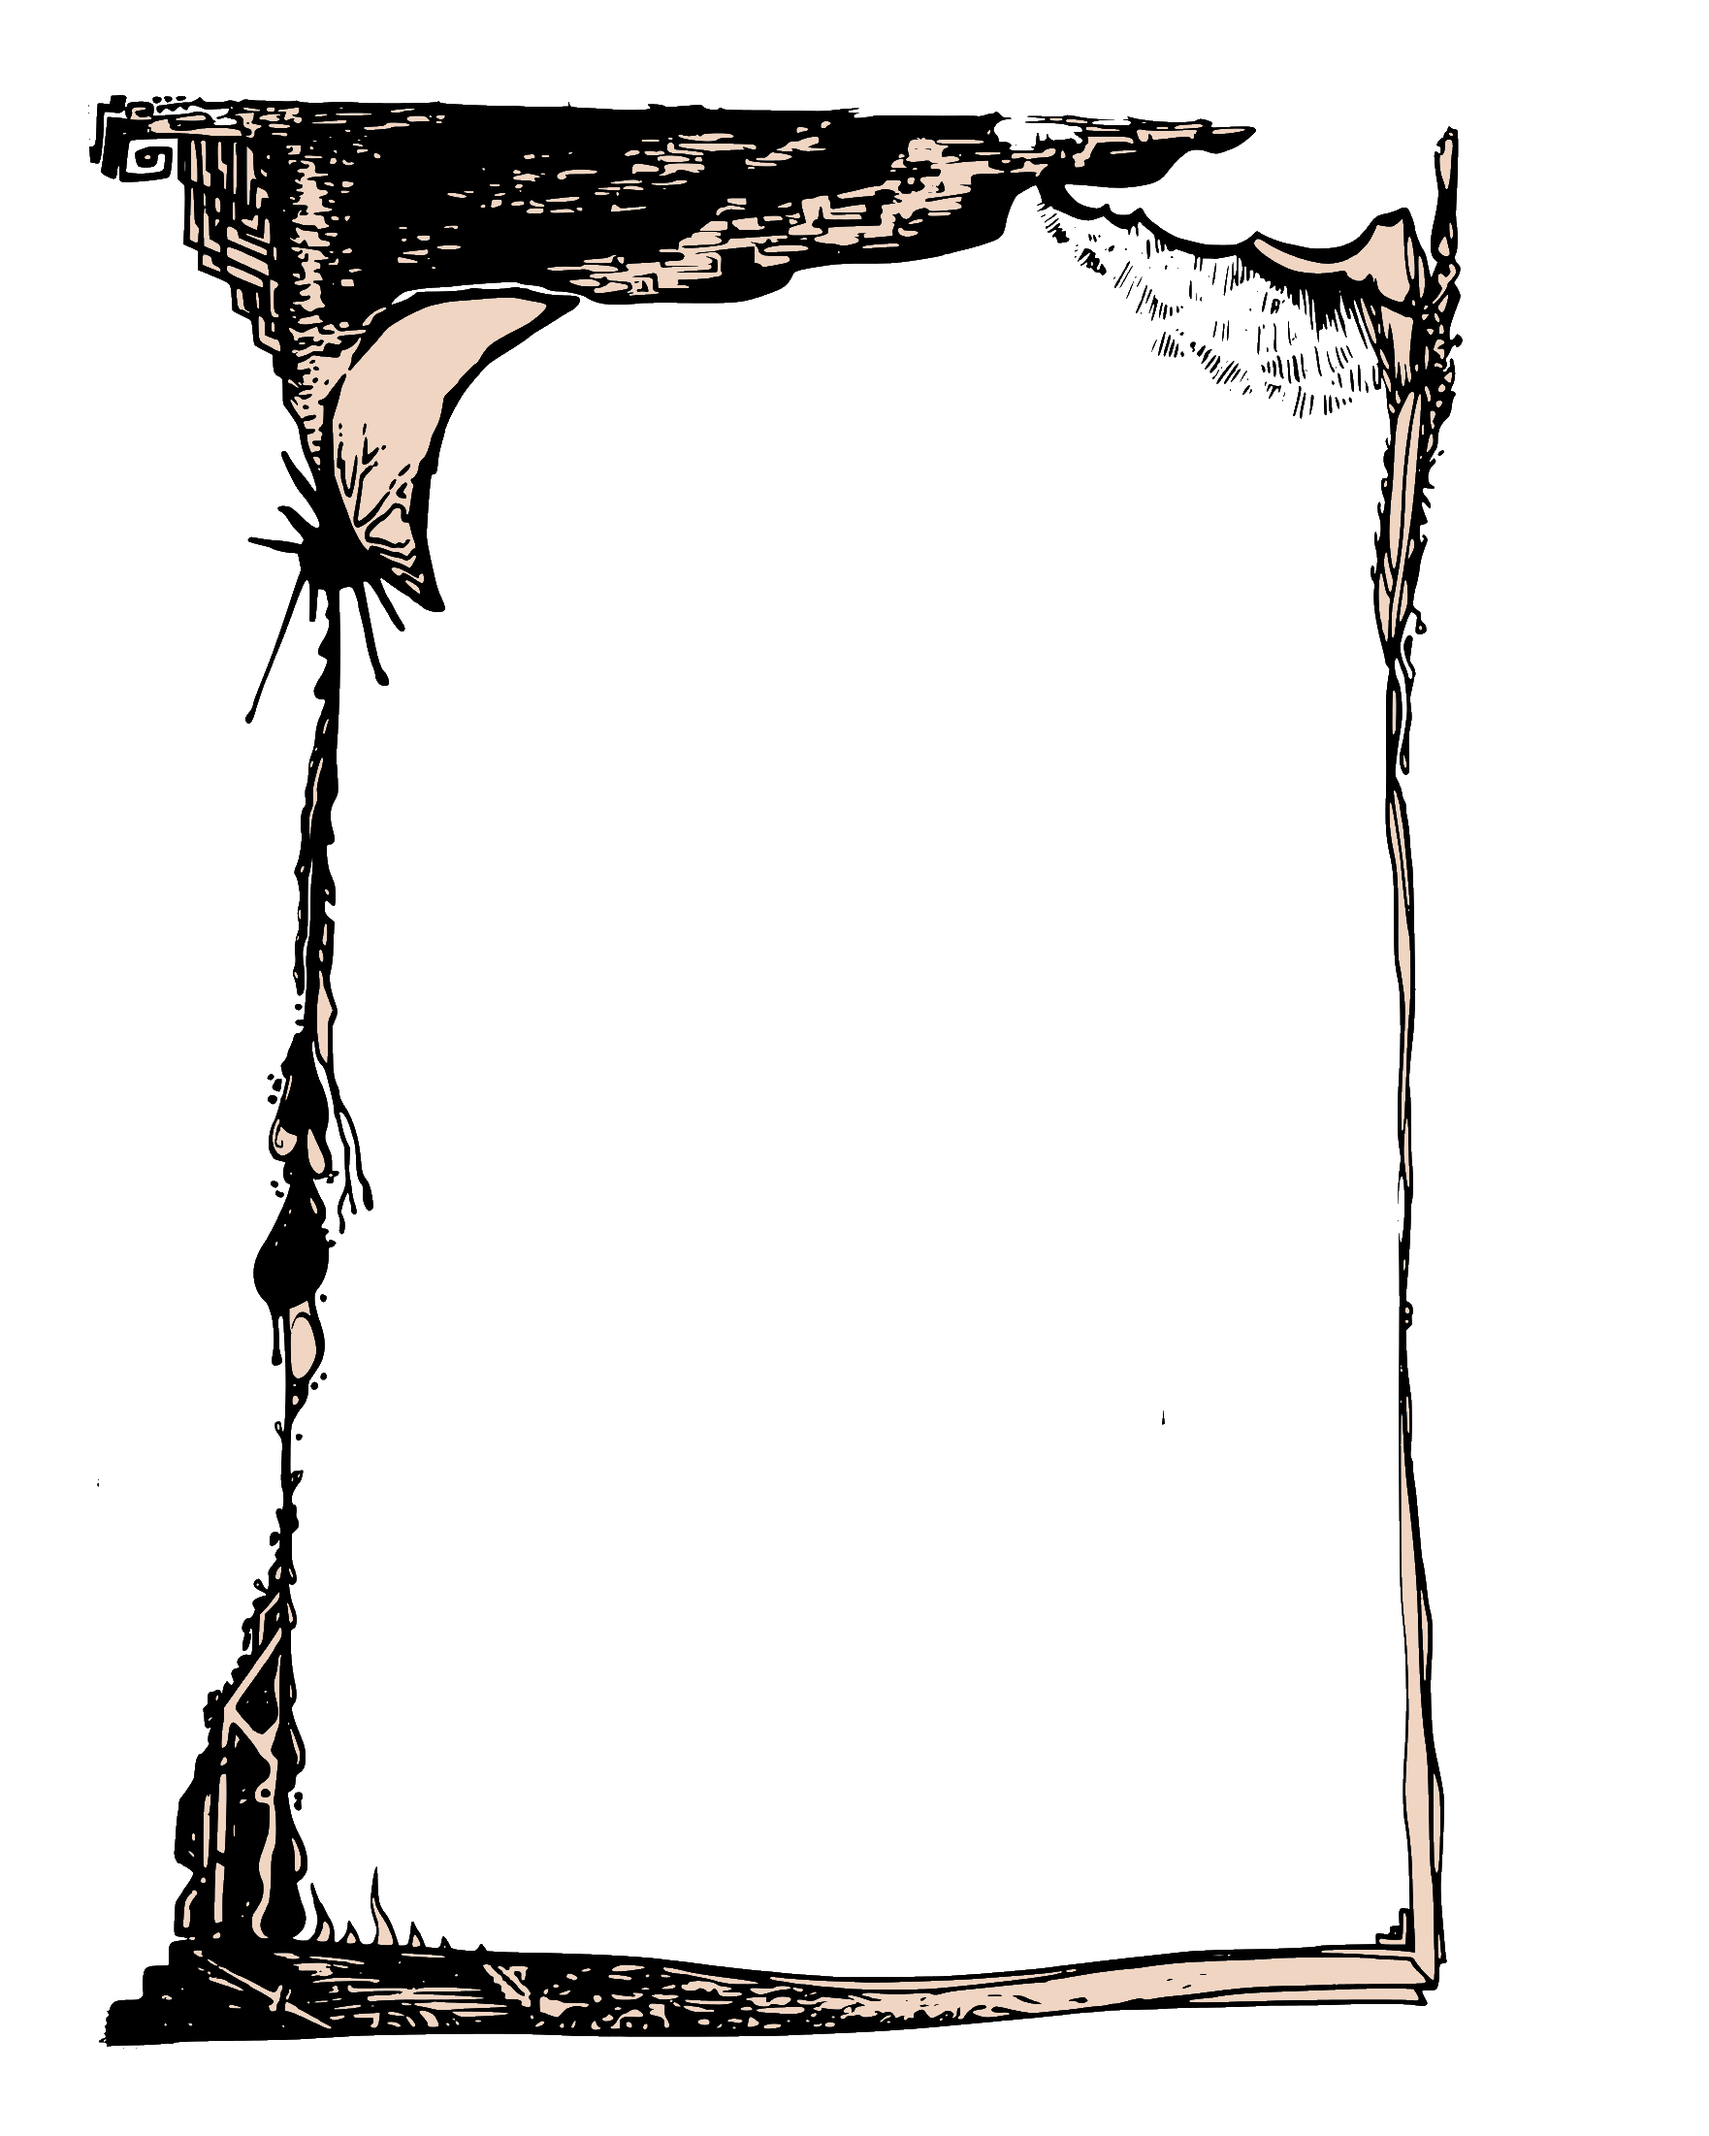
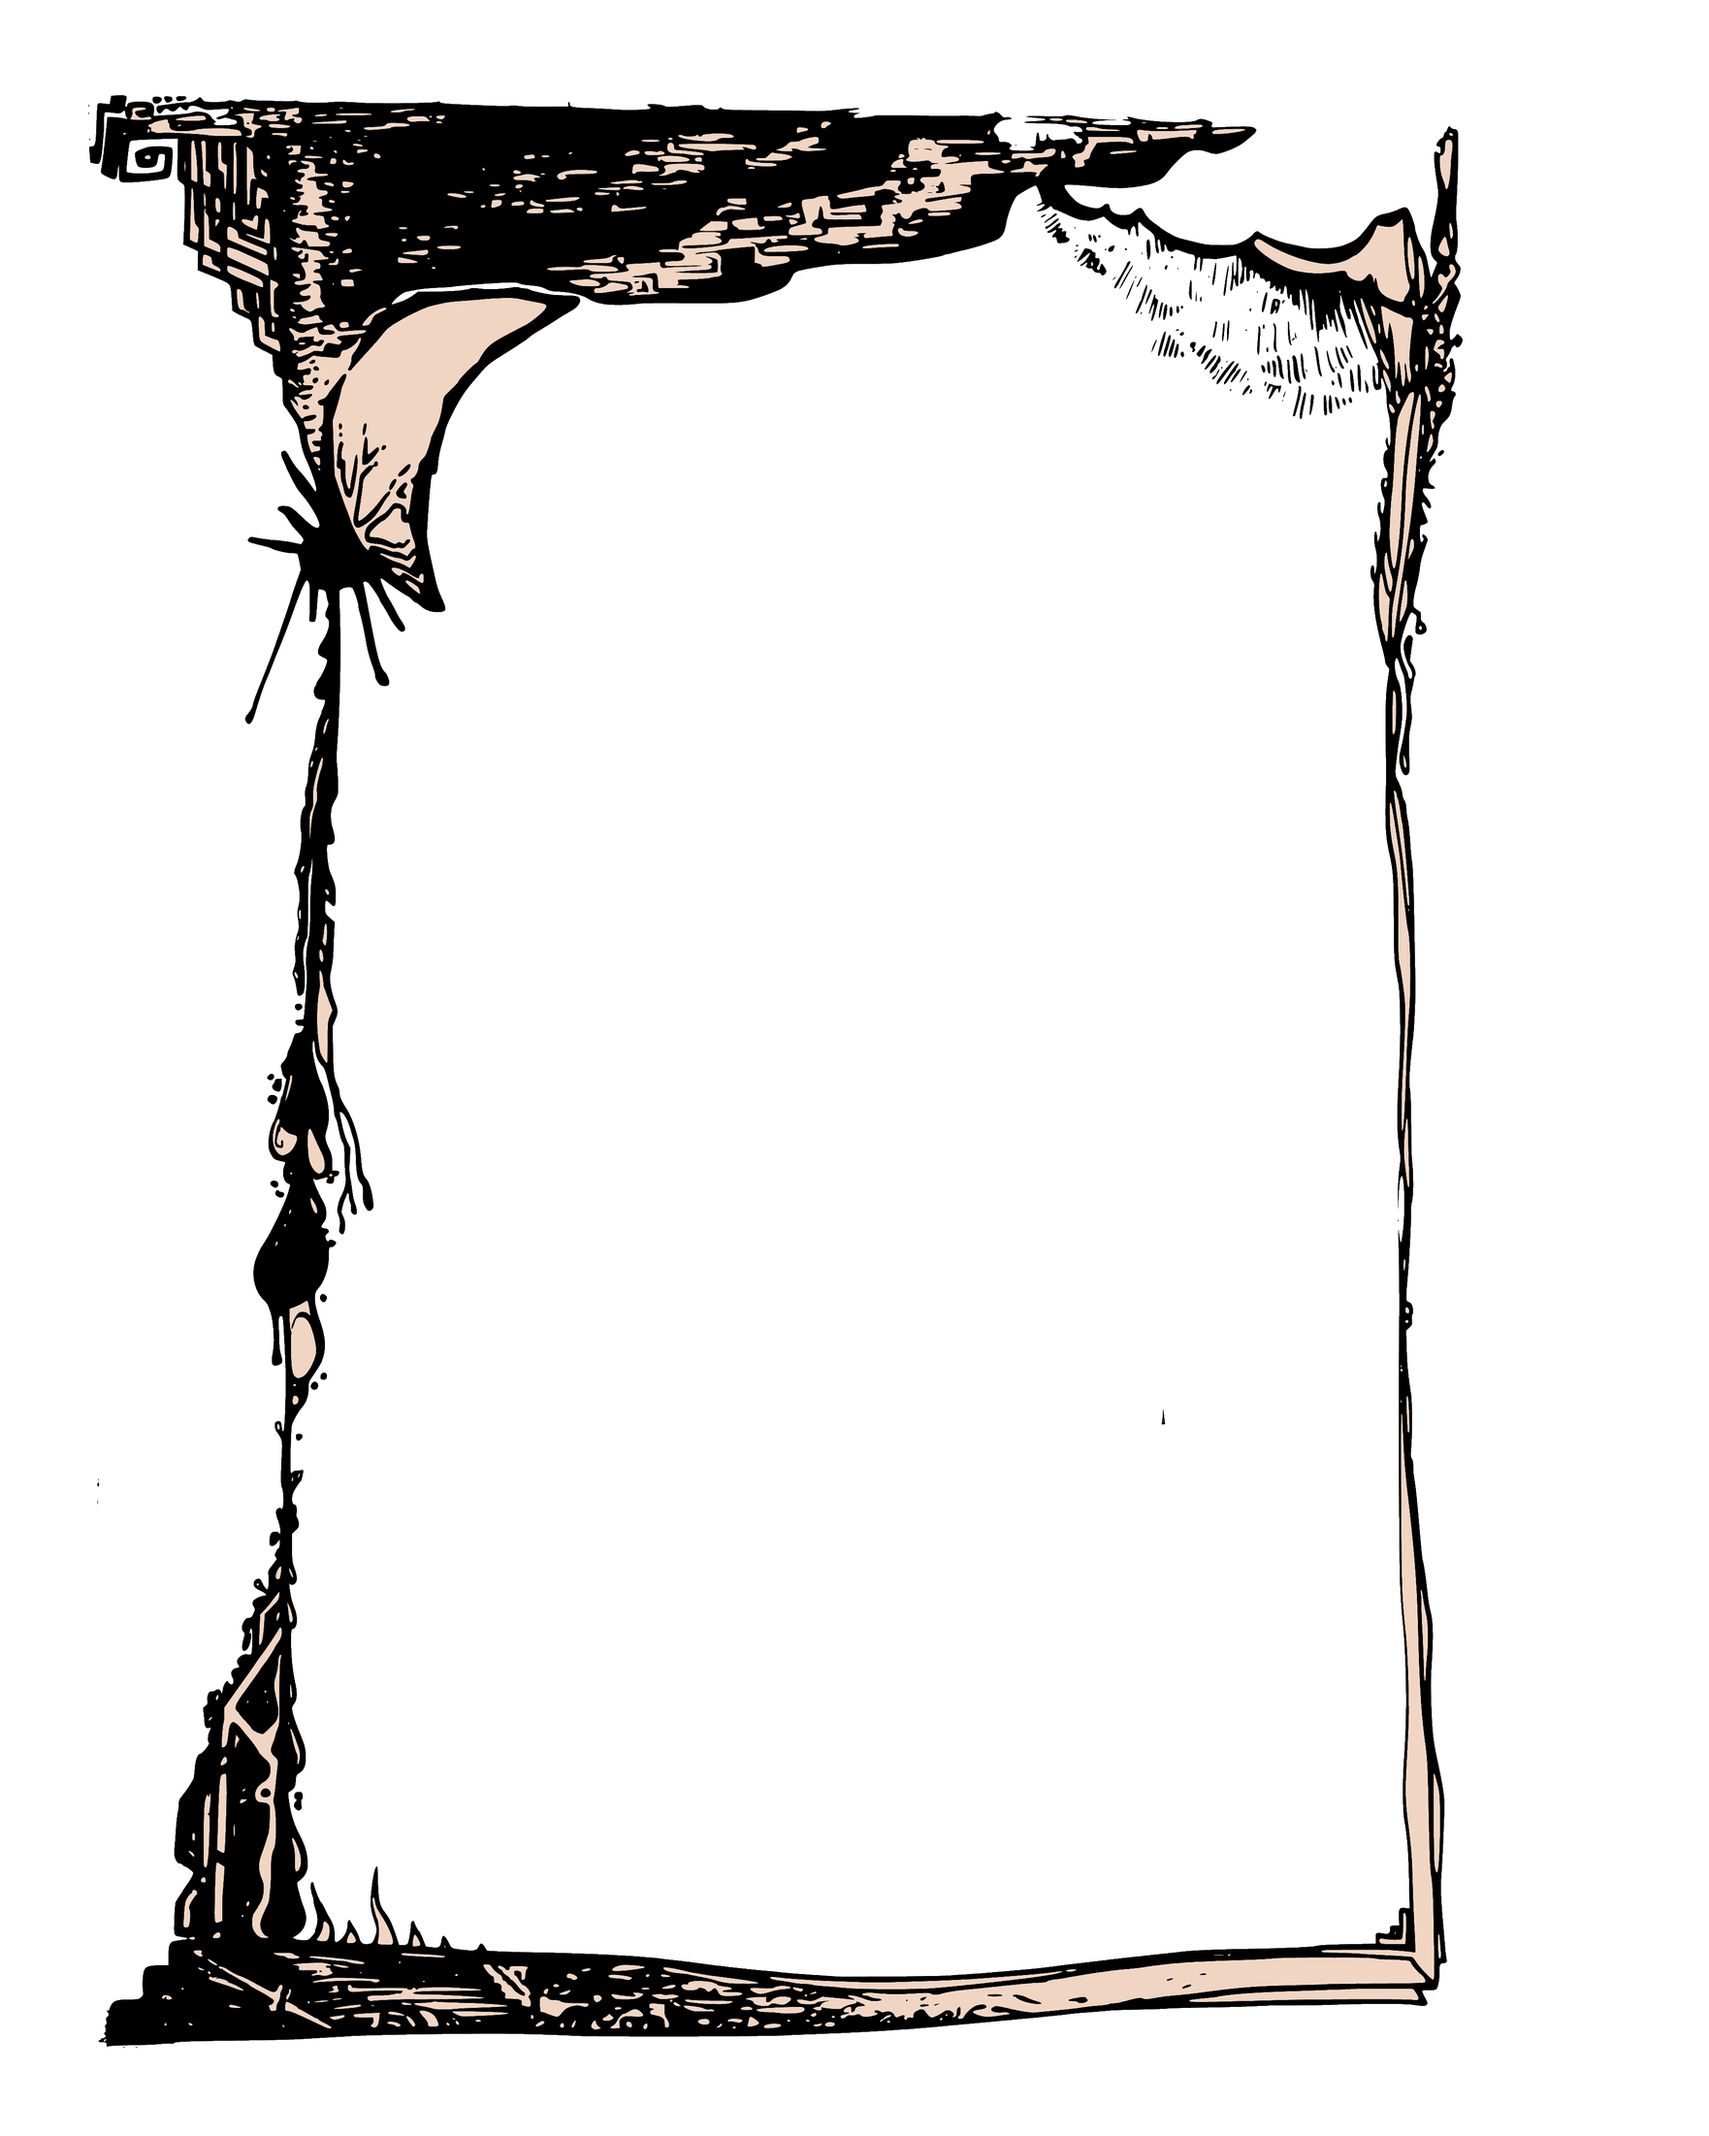
Fix a downscale-order bug softening the frame overlay's thin linework
The previous regeneration resized the rendered SVG down to near-final
size with LANCZOS *before* thresholding it into ink/cream/transparent,
which blurred away some of the thinnest strokes. Reordered: classify
ink vs. background at the SVG's native render resolution first (clean
binary decision, nothing to blur yet), then downscale the already-
decided RGBA image once at the end. Sharper linework, same design,
same position.

Changed region(s): [[0.4058, 0.9264, 0.5306, 0.9573], [0.1873, 0.9264, 0.2809, 0.9573], [0.3746, 0.0618, 0.4058, 0.0926]]

diff --git a/audio-fr.html b/audio-fr.html
@@ -68,7 +68,7 @@
           </div>
         </div>
       </div>
-      <img src="audio-frame-overlay.png?v=9" alt="" class="native-audio-frame-overlay">
+      <img src="audio-frame-overlay.png?v=10" alt="" class="native-audio-frame-overlay">
     </div>
     <p class="bandcamp-link-below"><a class="content-link social-link" href="https://comodorosuleyman.bandcamp.com/" target="_blank" rel="noopener"><svg class="social-icon" viewBox="0 0 512 512" aria-hidden="true"><path fill="currentColor" d="M256,8C119,8,8,119,8,256S119,504,256,504,504,393,504,256,393,8,256,8Zm48.2,326.1h-181L207.9,178h181Z"/></svg>Écouter sur Bandcamp</a></p>
   </div>

diff --git a/audio-es.html b/audio-es.html
@@ -68,7 +68,7 @@
           </div>
         </div>
       </div>
-      <img src="audio-frame-overlay.png?v=9" alt="" class="native-audio-frame-overlay">
+      <img src="audio-frame-overlay.png?v=10" alt="" class="native-audio-frame-overlay">
     </div>
     <p class="bandcamp-link-below"><a class="content-link social-link" href="https://comodorosuleyman.bandcamp.com/" target="_blank" rel="noopener"><svg class="social-icon" viewBox="0 0 512 512" aria-hidden="true"><path fill="currentColor" d="M256,8C119,8,8,119,8,256S119,504,256,504,504,393,504,256,393,8,256,8Zm48.2,326.1h-181L207.9,178h181Z"/></svg>Escuchar en Bandcamp</a></p>
   </div>

diff --git a/audio-ro.html b/audio-ro.html
@@ -68,7 +68,7 @@
           </div>
         </div>
       </div>
-      <img src="audio-frame-overlay.png?v=9" alt="" class="native-audio-frame-overlay">
+      <img src="audio-frame-overlay.png?v=10" alt="" class="native-audio-frame-overlay">
     </div>
     <p class="bandcamp-link-below"><a class="content-link social-link" href="https://comodorosuleyman.bandcamp.com/" target="_blank" rel="noopener"><svg class="social-icon" viewBox="0 0 512 512" aria-hidden="true"><path fill="currentColor" d="M256,8C119,8,8,119,8,256S119,504,256,504,504,393,504,256,393,8,256,8Zm48.2,326.1h-181L207.9,178h181Z"/></svg>Ascultă pe Bandcamp</a></p>
   </div>

diff --git a/audio.html b/audio.html
@@ -68,7 +68,7 @@
           </div>
         </div>
       </div>
-      <img src="audio-frame-overlay.png?v=9" alt="" class="native-audio-frame-overlay">
+      <img src="audio-frame-overlay.png?v=10" alt="" class="native-audio-frame-overlay">
     </div>
     <p class="bandcamp-link-below"><a class="content-link social-link" href="https://comodorosuleyman.bandcamp.com/" target="_blank" rel="noopener"><svg class="social-icon" viewBox="0 0 512 512" aria-hidden="true"><path fill="currentColor" d="M256,8C119,8,8,119,8,256S119,504,256,504,504,393,504,256,393,8,256,8Zm48.2,326.1h-181L207.9,178h181Z"/></svg>Listen on Bandcamp</a></p>
   </div>
